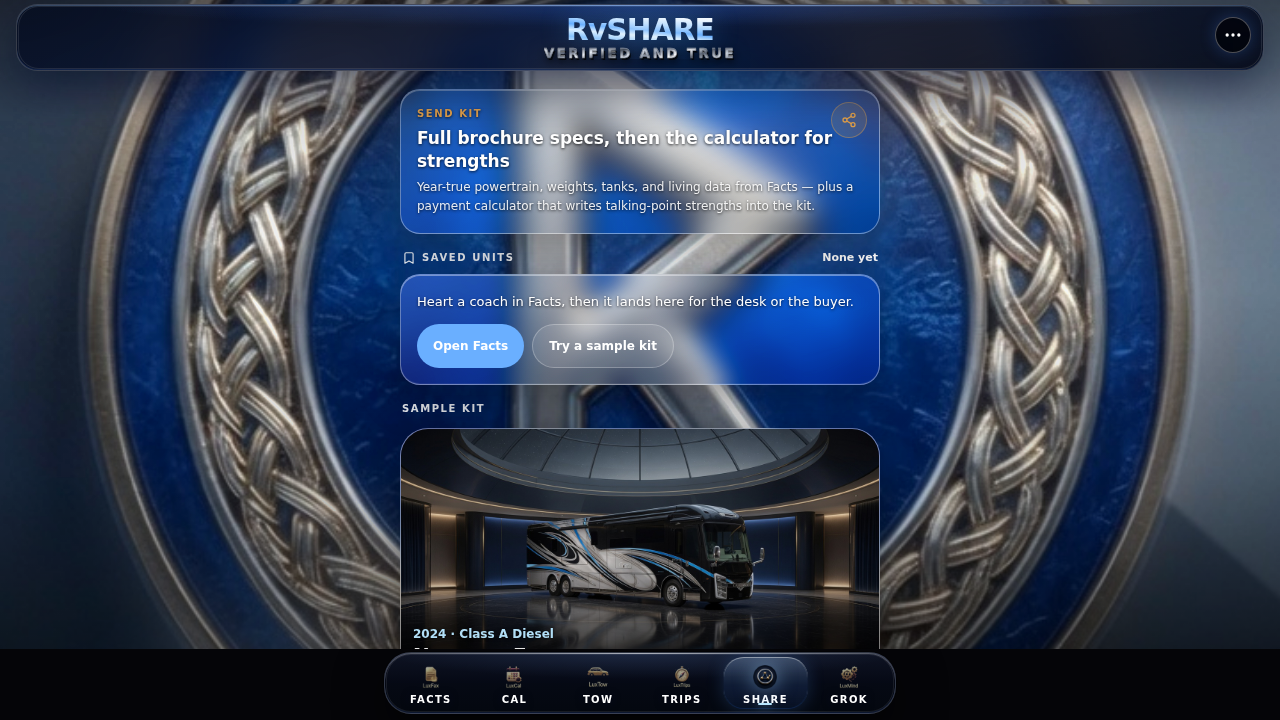
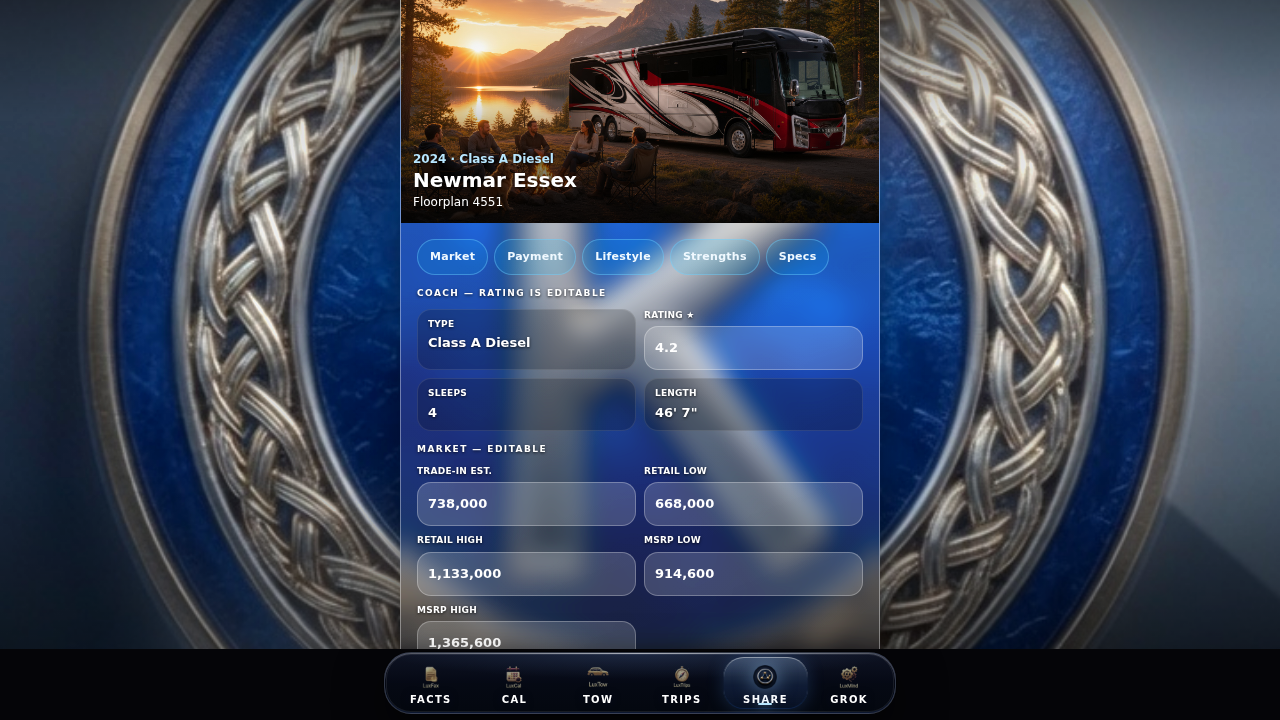
Make share-kit rating and interest rate editable.
Header is now "SpaceX AI-Powered RvFOX Report". Star rating and APR
are desk-editable and flow into the copied kit, including Rate and
the monthly estimate.

diff --git a/src/components/rvshare/RvShareApp.tsx b/src/components/rvshare/RvShareApp.tsx
@@ -18,6 +18,7 @@ import type { AppTab } from "@/components/shell/BottomTabs";
 import {
   compareSelectionKey,
   getSpec,
+  ratingFor,
   type RVResult,
 } from "@/lib/rv/catalog";
 import {
@@ -32,6 +33,7 @@ import {
   buildCoachKit,
   buildSuitePitch,
   brochureSpecGroups,
+  coachSnapshot,
   coachTitle,
   copyKit,
   DEFAULT_SHARE_INCLUDE,
@@ -88,6 +90,87 @@ function MoneyField({
         onChange={(e) => onChange(parseMoney(e.target.value))}
         className="glass-field min-h-11 w-full rounded-[var(--radius-md)] px-2.5 py-2.5 text-[13px] font-bold tabular-nums text-white outline-none [color-scheme:dark]"
       />
+    </label>
+  );
+}
+
+function DraftNumberField({
+  label,
+  value,
+  onChange,
+  prefix,
+  suffix,
+  min,
+  max,
+  decimals = 2,
+}: {
+  label: string;
+  value: number;
+  onChange: (n: number) => void;
+  prefix?: string;
+  suffix?: string;
+  min?: number;
+  max?: number;
+  decimals?: number;
+}) {
+  const format = (n: number) =>
+    Number.isFinite(n) ? n.toFixed(decimals) : "";
+  const [text, setText] = useState(() => format(value));
+  const [focused, setFocused] = useState(false);
+
+  useEffect(() => {
+    if (focused) return;
+    setText(
+      Number.isFinite(value)
+        ? value.toFixed(decimals)
+        : "",
+    );
+  }, [value, focused, decimals]);
+
+  const commit = (raw: string, clamp: boolean) => {
+    const n = Number.parseFloat(raw.replace(/[^\d.]/g, ""));
+    if (!Number.isFinite(n)) return;
+    let next = n;
+    if (clamp) {
+      if (min != null) next = Math.max(min, next);
+      if (max != null) next = Math.min(max, next);
+    }
+    const f = 10 ** decimals;
+    next = Math.round(next * f) / f;
+    onChange(next);
+  };
+
+  return (
+    <label className="block">
+      <span className="mb-1 block text-[9px] font-bold tracking-wide text-white/70">
+        {label}
+      </span>
+      <div className="glass-field flex min-h-11 items-center gap-1 rounded-[var(--radius-md)] px-2.5">
+        {prefix ? (
+          <span className="text-[13px] font-bold text-white/70">{prefix}</span>
+        ) : null}
+        <input
+          aria-label={label}
+          inputMode="decimal"
+          value={text}
+          onFocus={() => setFocused(true)}
+          onBlur={() => {
+            setFocused(false);
+            commit(text, true);
+          }}
+          onChange={(e) => {
+            const raw = e.target.value.replace(/[^\d.]/g, "");
+            setText(raw);
+            commit(raw, false);
+          }}
+          className="w-full bg-transparent py-2.5 text-[13px] font-bold tabular-nums text-white outline-none [color-scheme:dark]"
+        />
+        {suffix ? (
+          <span className="shrink-0 text-[12px] font-bold text-white/60">
+            {suffix}
+          </span>
+        ) : null}
+      </div>
     </label>
   );
 }
@@ -165,6 +248,7 @@ export function RvShareApp({
   const [status, setStatus] = useState<string | null>(null);
   const [strengthDraft, setStrengthDraft] = useState<string[]>([]);
   const [strengthsLocked, setStrengthsLocked] = useState(false);
+  const [ratingEdit, setRatingEdit] = useState<number | null>(null);
 
   const reloadSaved = useCallback(() => {
     setSaved(loadSavedUnits());
@@ -212,14 +296,26 @@ export function RvShareApp({
     setPayment(defaultPaymentFor(selected));
     setMarketEdit(defaultMarketFor(selected));
     setStrengthsLocked(false);
+    setRatingEdit(null);
   }, [selected]);
+
+  const catalogRating = useMemo(
+    () =>
+      selected ? ratingFor(selected.make, selected.model, selected.year) : 0,
+    [selected],
+  );
+  const ratingValue = ratingEdit ?? catalogRating;
 
   useEffect(() => {
     if (!selected || strengthsLocked) return;
     setStrengthDraft(
-      kitStrengths(selected, include.payment ? payment : undefined),
+      kitStrengths(
+        selected,
+        include.payment ? payment : undefined,
+        ratingValue,
+      ),
     );
-  }, [selected, include.payment, payment, strengthsLocked]);
+  }, [selected, include.payment, payment, strengthsLocked, ratingValue]);
 
   const priceOptions = useMemo(() => {
     const mid = Math.round((marketEdit.retailLow + marketEdit.retailHigh) / 2);
@@ -240,10 +336,16 @@ export function RvShareApp({
       payment,
       market: marketEdit,
       strengths: strengthDraft,
+      rating: ratingValue,
     });
-  }, [selected, include, payment, marketEdit, strengthDraft]);
+  }, [selected, include, payment, marketEdit, strengthDraft, ratingValue]);
 
   const loan = useMemo(() => paymentBreakdown(payment), [payment]);
+
+  const snap = useMemo(
+    () => (selected ? coachSnapshot(selected, ratingValue) : null),
+    [selected, ratingValue],
+  );
 
   const specGroups = useMemo(
     () => (selected ? brochureSpecGroups(selected) : []),
@@ -483,6 +585,48 @@ export function RvShareApp({
                   })}
                 </div>
 
+                {snap ? (
+                  <div className="space-y-2">
+                    <p className="text-[9px] font-bold tracking-[0.16em] text-white/70">
+                      COACH — RATING IS EDITABLE
+                    </p>
+                    <div className="grid grid-cols-2 gap-2">
+                      <div className="rounded-[var(--radius-md)] border border-white/10 bg-black/20 px-2.5 py-2">
+                        <p className="text-[9px] font-bold tracking-wide text-white/55">
+                          TYPE
+                        </p>
+                        <p className="mt-0.5 truncate text-[13px] font-bold text-white">
+                          {snap.type || "—"}
+                        </p>
+                      </div>
+                      <DraftNumberField
+                        label="RATING ★"
+                        value={ratingValue}
+                        onChange={setRatingEdit}
+                        min={1}
+                        max={5}
+                        decimals={1}
+                      />
+                      <div className="rounded-[var(--radius-md)] border border-white/10 bg-black/20 px-2.5 py-2">
+                        <p className="text-[9px] font-bold tracking-wide text-white/55">
+                          SLEEPS
+                        </p>
+                        <p className="mt-0.5 truncate text-[13px] font-bold text-white">
+                          {snap.sleeps || "—"}
+                        </p>
+                      </div>
+                      <div className="rounded-[var(--radius-md)] border border-white/10 bg-black/20 px-2.5 py-2">
+                        <p className="text-[9px] font-bold tracking-wide text-white/55">
+                          LENGTH
+                        </p>
+                        <p className="mt-0.5 truncate text-[13px] font-bold text-white">
+                          {snap.length || "—"}
+                        </p>
+                      </div>
+                    </div>
+                  </div>
+                ) : null}
+
                 {include.market ? (
                   <div className="space-y-2">
                     <p className="text-[9px] font-bold tracking-[0.16em] text-white/70">
@@ -531,13 +675,24 @@ export function RvShareApp({
                 {include.payment ? (
                   <div className="space-y-2">
                     <p className="text-[9px] font-bold tracking-[0.16em] text-white/70">
-                      PAYMENT — PRICE IS EDITABLE
+                      PAYMENT — PRICE & RATE ARE EDITABLE
                     </p>
-                    <MoneyField
-                      label="PRICE"
-                      value={payment.price}
-                      onChange={(price) => setPayment((p) => ({ ...p, price }))}
-                    />
+                    <div className="grid grid-cols-2 gap-2">
+                      <MoneyField
+                        label="PRICE"
+                        value={payment.price}
+                        onChange={(price) => setPayment((p) => ({ ...p, price }))}
+                      />
+                      <DraftNumberField
+                        label="INTEREST RATE"
+                        value={payment.apr}
+                        onChange={(apr) => setPayment((p) => ({ ...p, apr }))}
+                        suffix="%"
+                        min={0}
+                        max={30}
+                        decimals={2}
+                      />
+                    </div>
                     {priceOptions.length ? (
                       <div className="flex flex-wrap gap-1.5">
                         {priceOptions.map((o) => (
@@ -559,7 +714,7 @@ export function RvShareApp({
                         ))}
                       </div>
                     ) : null}
-                    <div className="grid grid-cols-2 gap-2 sm:grid-cols-3">
+                    <div className="grid grid-cols-2 gap-2">
                       <label className="block">
                         <span className="mb-1 block text-[9px] font-bold tracking-wide text-white/70">
                           DOWN
@@ -598,14 +753,14 @@ export function RvShareApp({
                           }
                         />
                       </label>
-                      <div className="flex flex-col justify-end rounded-[var(--radius-md)] border border-white/15 bg-white/5 px-2 py-2 text-center">
-                        <p className="text-[9px] font-bold tracking-wide text-white/70">
-                          EST. / MO
-                        </p>
-                        <p className="text-[15px] font-black tabular-nums text-sky-100">
-                          {formatMoney(loan.monthly)}
-                        </p>
-                      </div>
+                    </div>
+                    <div className="flex items-center justify-between rounded-[var(--radius-md)] border border-white/15 bg-white/5 px-3 py-2.5">
+                      <p className="text-[9px] font-bold tracking-wide text-white/70">
+                        EST. / MO
+                      </p>
+                      <p className="text-[15px] font-black tabular-nums text-sky-100">
+                        {formatMoney(loan.monthly)}
+                      </p>
                     </div>
                     <div className="grid grid-cols-2 gap-2">
                       {[

diff --git a/src/lib/rv/shareKit.ts b/src/lib/rv/shareKit.ts
@@ -11,6 +11,7 @@ import {
   computeLoan,
   defaultAprForTerm,
   formatMoney,
+  formatPct,
 } from "./rvCal";
 import { resolveShareHost } from "@/lib/og/shareHost";
 import { mediaForRvType } from "@/assets/typeMedia";
@@ -50,6 +51,11 @@ export type ShareMarket = {
   msrpLo: number;
   msrpHi: number;
 };
+
+export const SHARE_KIT_HEADER = "SpaceX AI-Powered RvFOX Report";
+export const SHARE_KIT_TAGLINE = "Know before you buy.";
+export const SHARE_KIT_FOOTER =
+  "Prepared in RvFOX Powered By SpaceX. Confirm door sticker, PPI, and lender.";
 
 export type ShareOutcome = "shared" | "copied" | "cancelled" | "failed";
 
@@ -224,12 +230,20 @@ export function brochureSpecGroups(r: RVResult) {
   ].filter((g) => g.rows.length);
 }
 
-export function kitStrengths(r: RVResult, payment?: SharePayment): string[] {
+export function kitStrengths(
+  r: RVResult,
+  payment?: SharePayment,
+  ratingScore?: number,
+): string[] {
   const b = coachBrochure(r);
   const meta = getRatingMetadata(r.make, r.model, r.year);
   const out: string[] = [];
+  const score =
+    ratingScore != null && Number.isFinite(ratingScore) && ratingScore > 0
+      ? ratingScore
+      : meta.score;
   out.push(
-    `${meta.tierLabel} · ${meta.score.toFixed(1)} / 5.0 · ${meta.confidence} confidence`,
+    `${meta.tierLabel} · ${score.toFixed(1)} / 5.0 · ${meta.confidence} confidence`,
   );
   if (meta.yearNote) out.push(meta.yearNote);
   if (
@@ -288,17 +302,24 @@ export function kitStrengths(r: RVResult, payment?: SharePayment): string[] {
   return out;
 }
 
-export function coachSnapshot(r: RVResult): {
+export function coachSnapshot(
+  r: RVResult,
+  ratingOverride?: number,
+): {
   type: string;
   rating: string;
   sleeps: string;
   length: string;
 } {
   const b = coachBrochure(r);
-  const rating = ratingFor(r.make, r.model, r.year);
+  const catalog = ratingFor(r.make, r.model, r.year);
+  const rating =
+    ratingOverride != null && Number.isFinite(ratingOverride) && ratingOverride > 0
+      ? ratingOverride
+      : catalog;
   return {
     type: r.data.type || "",
-    rating: Number.isFinite(rating) ? `★ ${rating.toFixed(1)}` : "",
+    rating: Number.isFinite(rating) && rating > 0 ? `★ ${rating.toFixed(1)}` : "",
     sleeps: b.sleeps || (r.data.sleeps ? String(r.data.sleeps) : ""),
     length: b.lengthFt || "",
   };
@@ -330,15 +351,16 @@ export function buildCoachKit(opts: {
   payment?: SharePayment;
   market?: ShareMarket;
   strengths?: string[];
+  rating?: number;
 }): string {
   const { result: r, include, payment } = opts;
   const lines: string[] = [];
   const title = coachTitle(r);
   const market = opts.market ?? defaultMarketFor(r);
-  const snap = coachSnapshot(r);
+  const snap = coachSnapshot(r, opts.rating);
 
-  lines.push("SpaceX AI Powered RvFOX Report");
-  lines.push("Know before you buy.");
+  lines.push(SHARE_KIT_HEADER);
+  lines.push(SHARE_KIT_TAGLINE);
   lines.push("");
   lines.push(title);
   if (snap.type) lines.push(`Type: ${snap.type}`);
@@ -359,6 +381,9 @@ export function buildCoachKit(opts: {
     lines.push("");
     lines.push("PAYMENT (estimate)");
     lines.push(`Price ${formatMoney(payment.price)}`);
+    if (Number.isFinite(payment.apr) && payment.apr > 0) {
+      lines.push(`Rate ${formatPct(payment.apr)}`);
+    }
     lines.push(`≈ ${formatMoney(p.monthly)} / mo`);
     lines.push("Not a lender quote — confirm in RvCAL with ZIP tax.");
   }
@@ -371,7 +396,7 @@ export function buildCoachKit(opts: {
   if (include.strengths) {
     const items =
       opts.strengths ??
-      kitStrengths(r, include.payment ? payment : undefined);
+      kitStrengths(r, include.payment ? payment : undefined, opts.rating);
     const clean = items.map((s) => s.trim()).filter(Boolean);
     if (clean.length) {
       lines.push("");
@@ -395,9 +420,7 @@ export function buildCoachKit(opts: {
 
   lines.push("");
   lines.push("—");
-  lines.push(
-    "Prepared in RvFOX Powered By SpaceX. Confirm door sticker, PPI, and lender.",
-  );
+  lines.push(SHARE_KIT_FOOTER);
   return lines.join("\n");
 }
 
